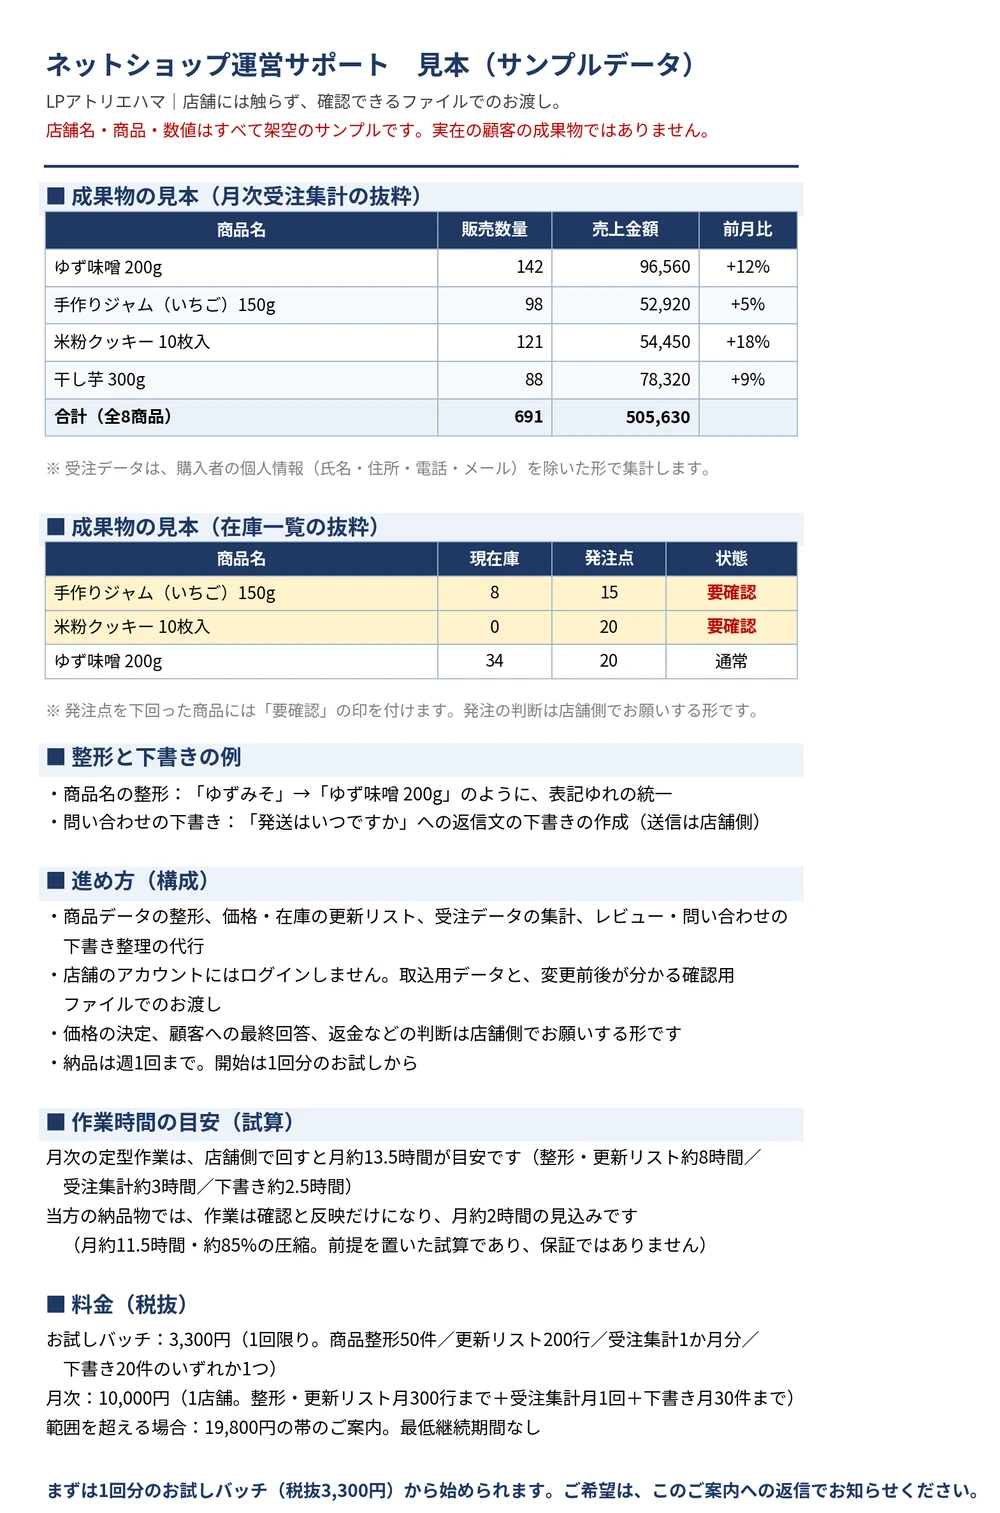
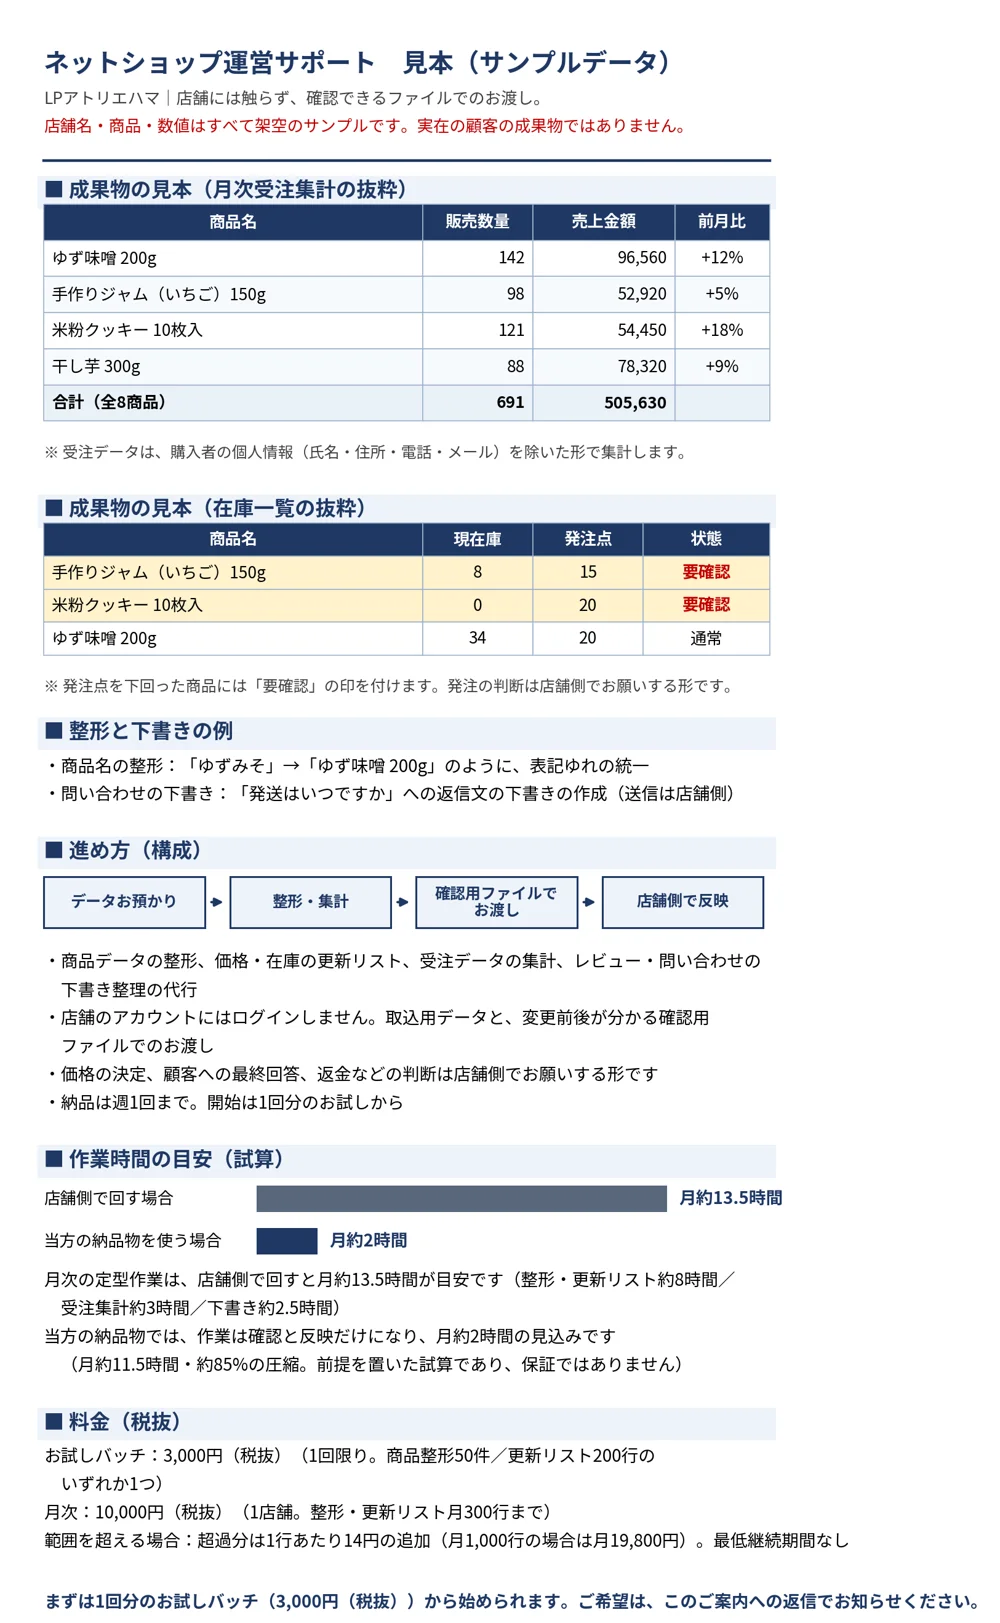
EC運営サポートの価格表示を訂正（お試し3,300円→3,000円・税抜、本文3か所と見本画像を新版へ）

Changed region(s): [[0.031, 0.0311, 0.961, 0.9941]]

diff --git a/index.html b/index.html
@@ -324,7 +324,7 @@ gtag('config', 'G-VBXRZX7ZNV');
         <span class="no">05</span>
         <h3>EC運営サポート</h3>
         <p>受注データの集計、在庫一覧の整形、商品データの整形</p>
-        <span class="price-chip">お試し3,300円（税抜）／月次10,000円（税抜）</span>
+        <span class="price-chip">お試し3,000円（税抜）／月次10,000円（税抜）</span>
         <span class="more">詳細と見本</span>
       </a>
       <a class="scard" href="#svc-data">
@@ -515,12 +515,12 @@ gtag('config', 'G-VBXRZX7ZNV');
 <h4>納品形式</h4>
 <p>集計と一覧はExcelでお渡しします。変更前後の対照が残る形のため、御社で内容を確認してから反映できます。</p>
 <h4>料金の目安</h4>
-<div class="fee"><b>お試しバッチ 3,300円（税抜）</b>：1回限り、範囲固定。<br><b>月次継続 10,000円（税抜）</b>：範囲の上限つき。範囲は開始前に固定します。</div>
+<div class="fee"><b>お試しバッチ 3,000円（税抜）</b>：1回限り、範囲固定。<br><b>月次継続 10,000円（税抜）</b>：範囲の上限つき。範囲は開始前に固定します。</div>
 </div>
 <div>
 <h4>見本</h4>
 <div class="sample-box">
-<img src="assets/ec-onepager.webp" width="1000" height="1513" loading="lazy" decoding="async" alt="EC運営サポートの提案用1枚もの（サンプル）">
+<img src="assets/ec-onepager.webp" width="1000" height="1623" loading="lazy" decoding="async" alt="EC運営サポートの提案用1枚もの（サンプル）">
 <div class="sample-cap">見本：EC運営サポートの進め方（架空データ）。細部はPDF版で拡大してご覧ください。</div>
 </div>
 <div class="dl">
@@ -649,7 +649,7 @@ gtag('config', 'G-VBXRZX7ZNV');
 <div class="pcard"><h3>経費精算・請求処理</h3><div class="amt">月10,000円（税抜）定額</div><a class="go" href="#svc-expense">詳細を見る</a></div>
 <div class="pcard"><h3>勤怠・シフト集計</h3><div class="amt">月10,000円（税抜）〜</div><a class="go" href="#svc-attendance">詳細を見る</a></div>
 <div class="pcard"><h3>会計データ整形</h3><div class="amt">月10,000円（税抜）〜</div><a class="go" href="#svc-accounting">詳細を見る</a></div>
-<div class="pcard"><h3>EC運営サポート</h3><div class="amt">お試し3,300円（税抜）／月次10,000円（税抜）</div><a class="go" href="#svc-ec">詳細を見る</a></div>
+<div class="pcard"><h3>EC運営サポート</h3><div class="amt">お試し3,000円（税抜）／月次10,000円（税抜）</div><a class="go" href="#svc-ec">詳細を見る</a></div>
 <div class="pcard"><h3>データ集計・整形と自動化</h3><div class="amt">月次集計レポート 月10,000円（税抜）</div><a class="go" href="#svc-data">詳細を見る</a></div>
 <div class="pcard"><h3>LP・ホームページ制作</h3><div class="amt">標準 77,000円（税抜）／5万円〜</div><a class="go" href="#svc-lp">詳細を見る</a></div>
 <div class="pcard"><h3>営業データの集計・分析レポート</h3><div class="amt">見積り</div><a class="go" href="#svc-analysis">詳細を見る</a></div>
